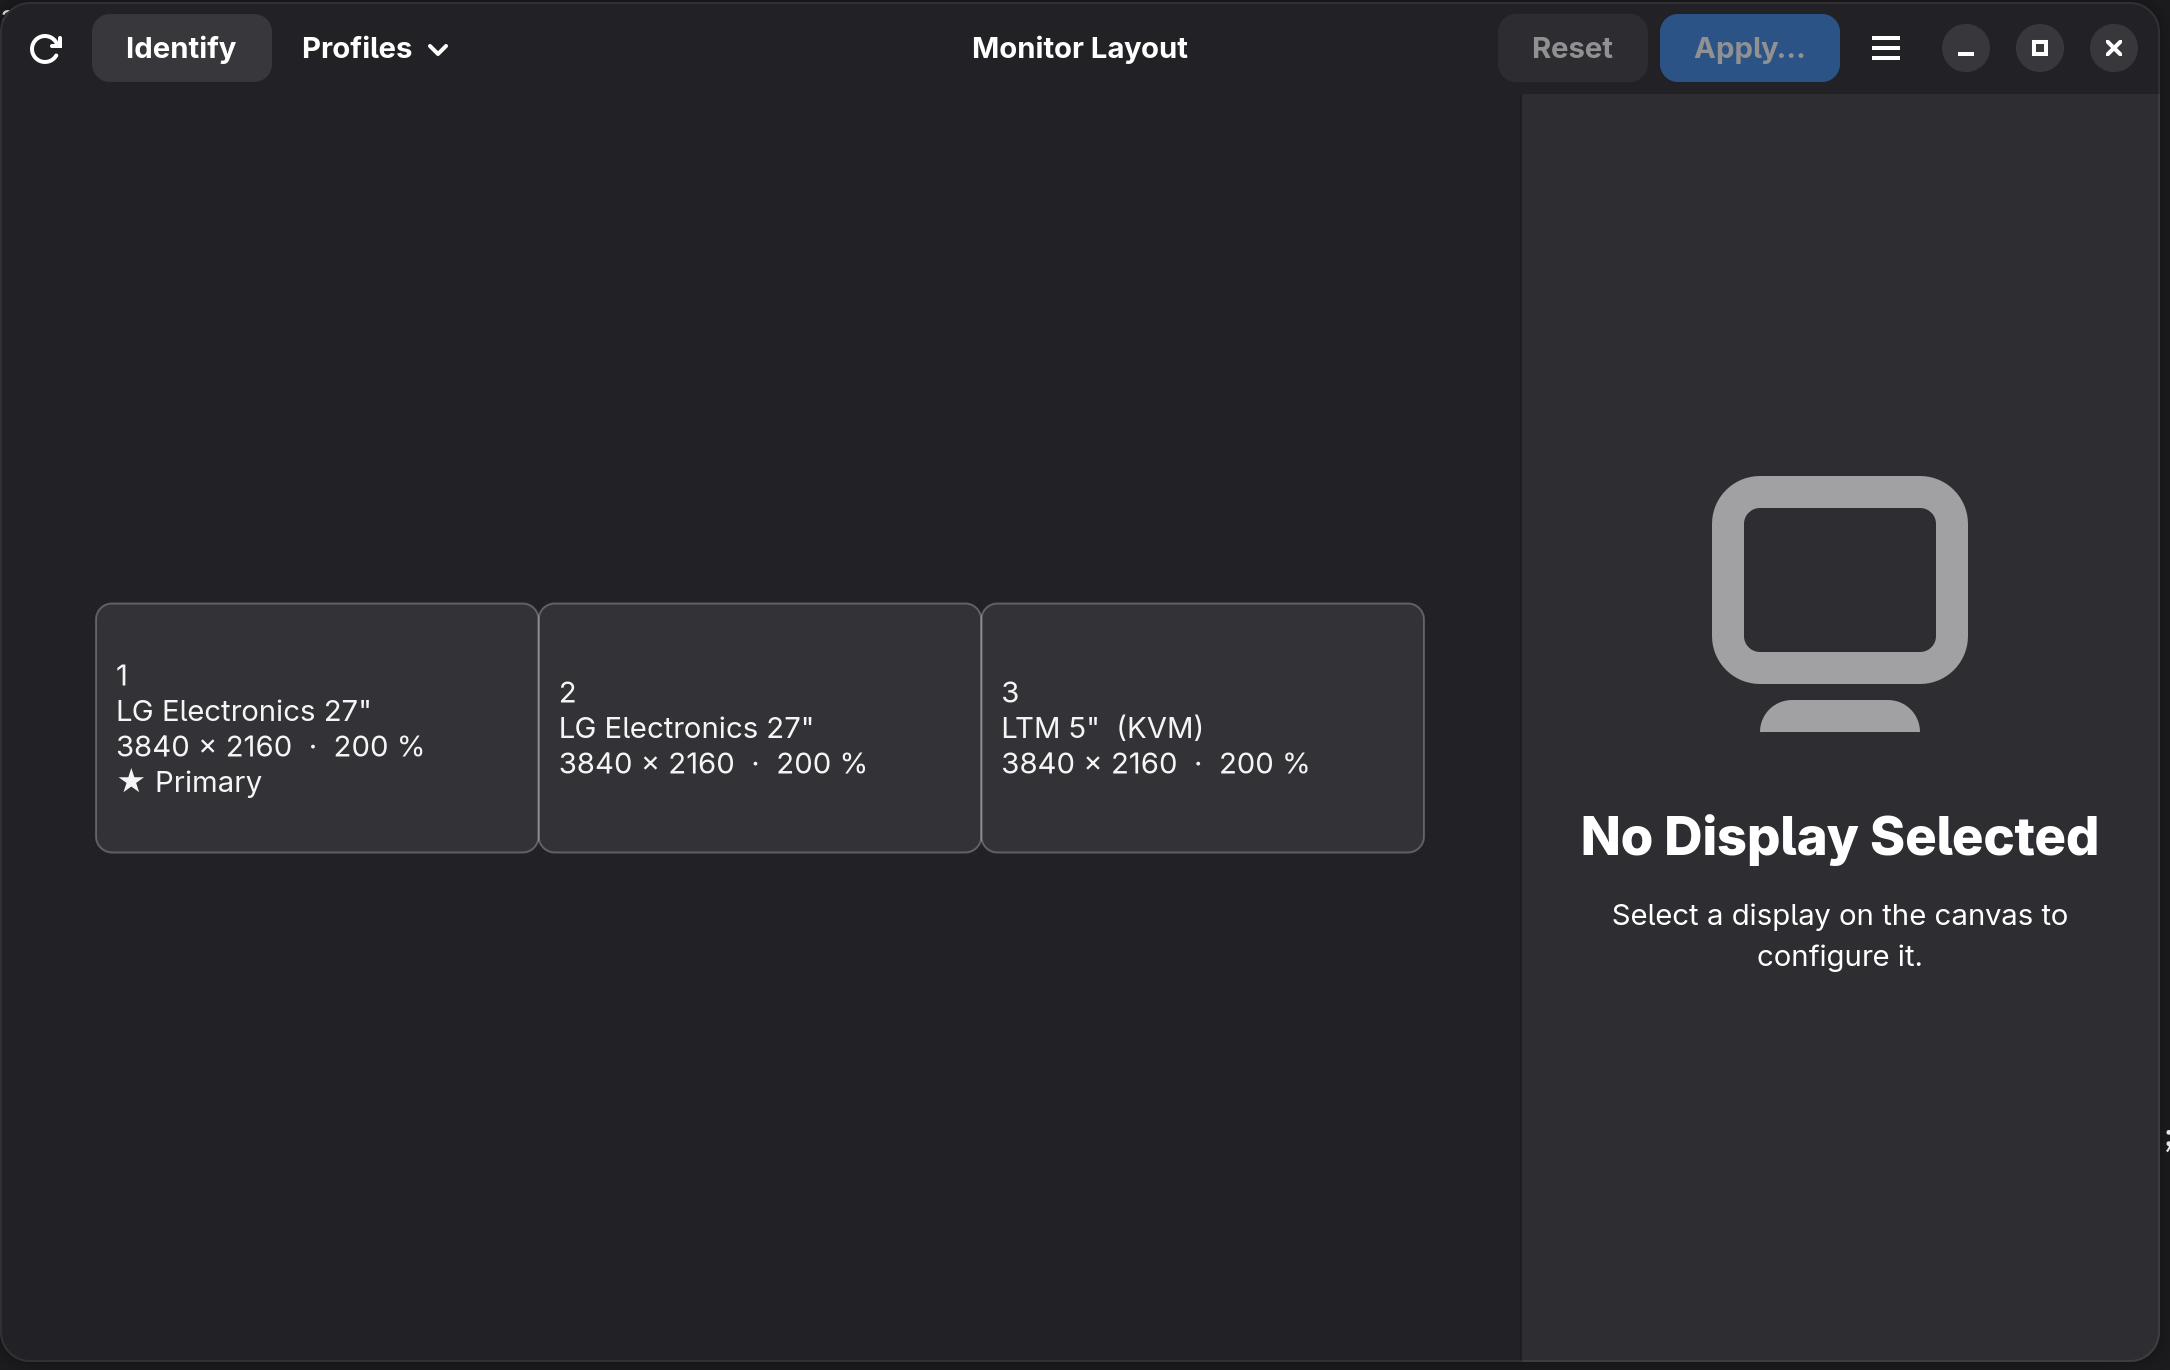
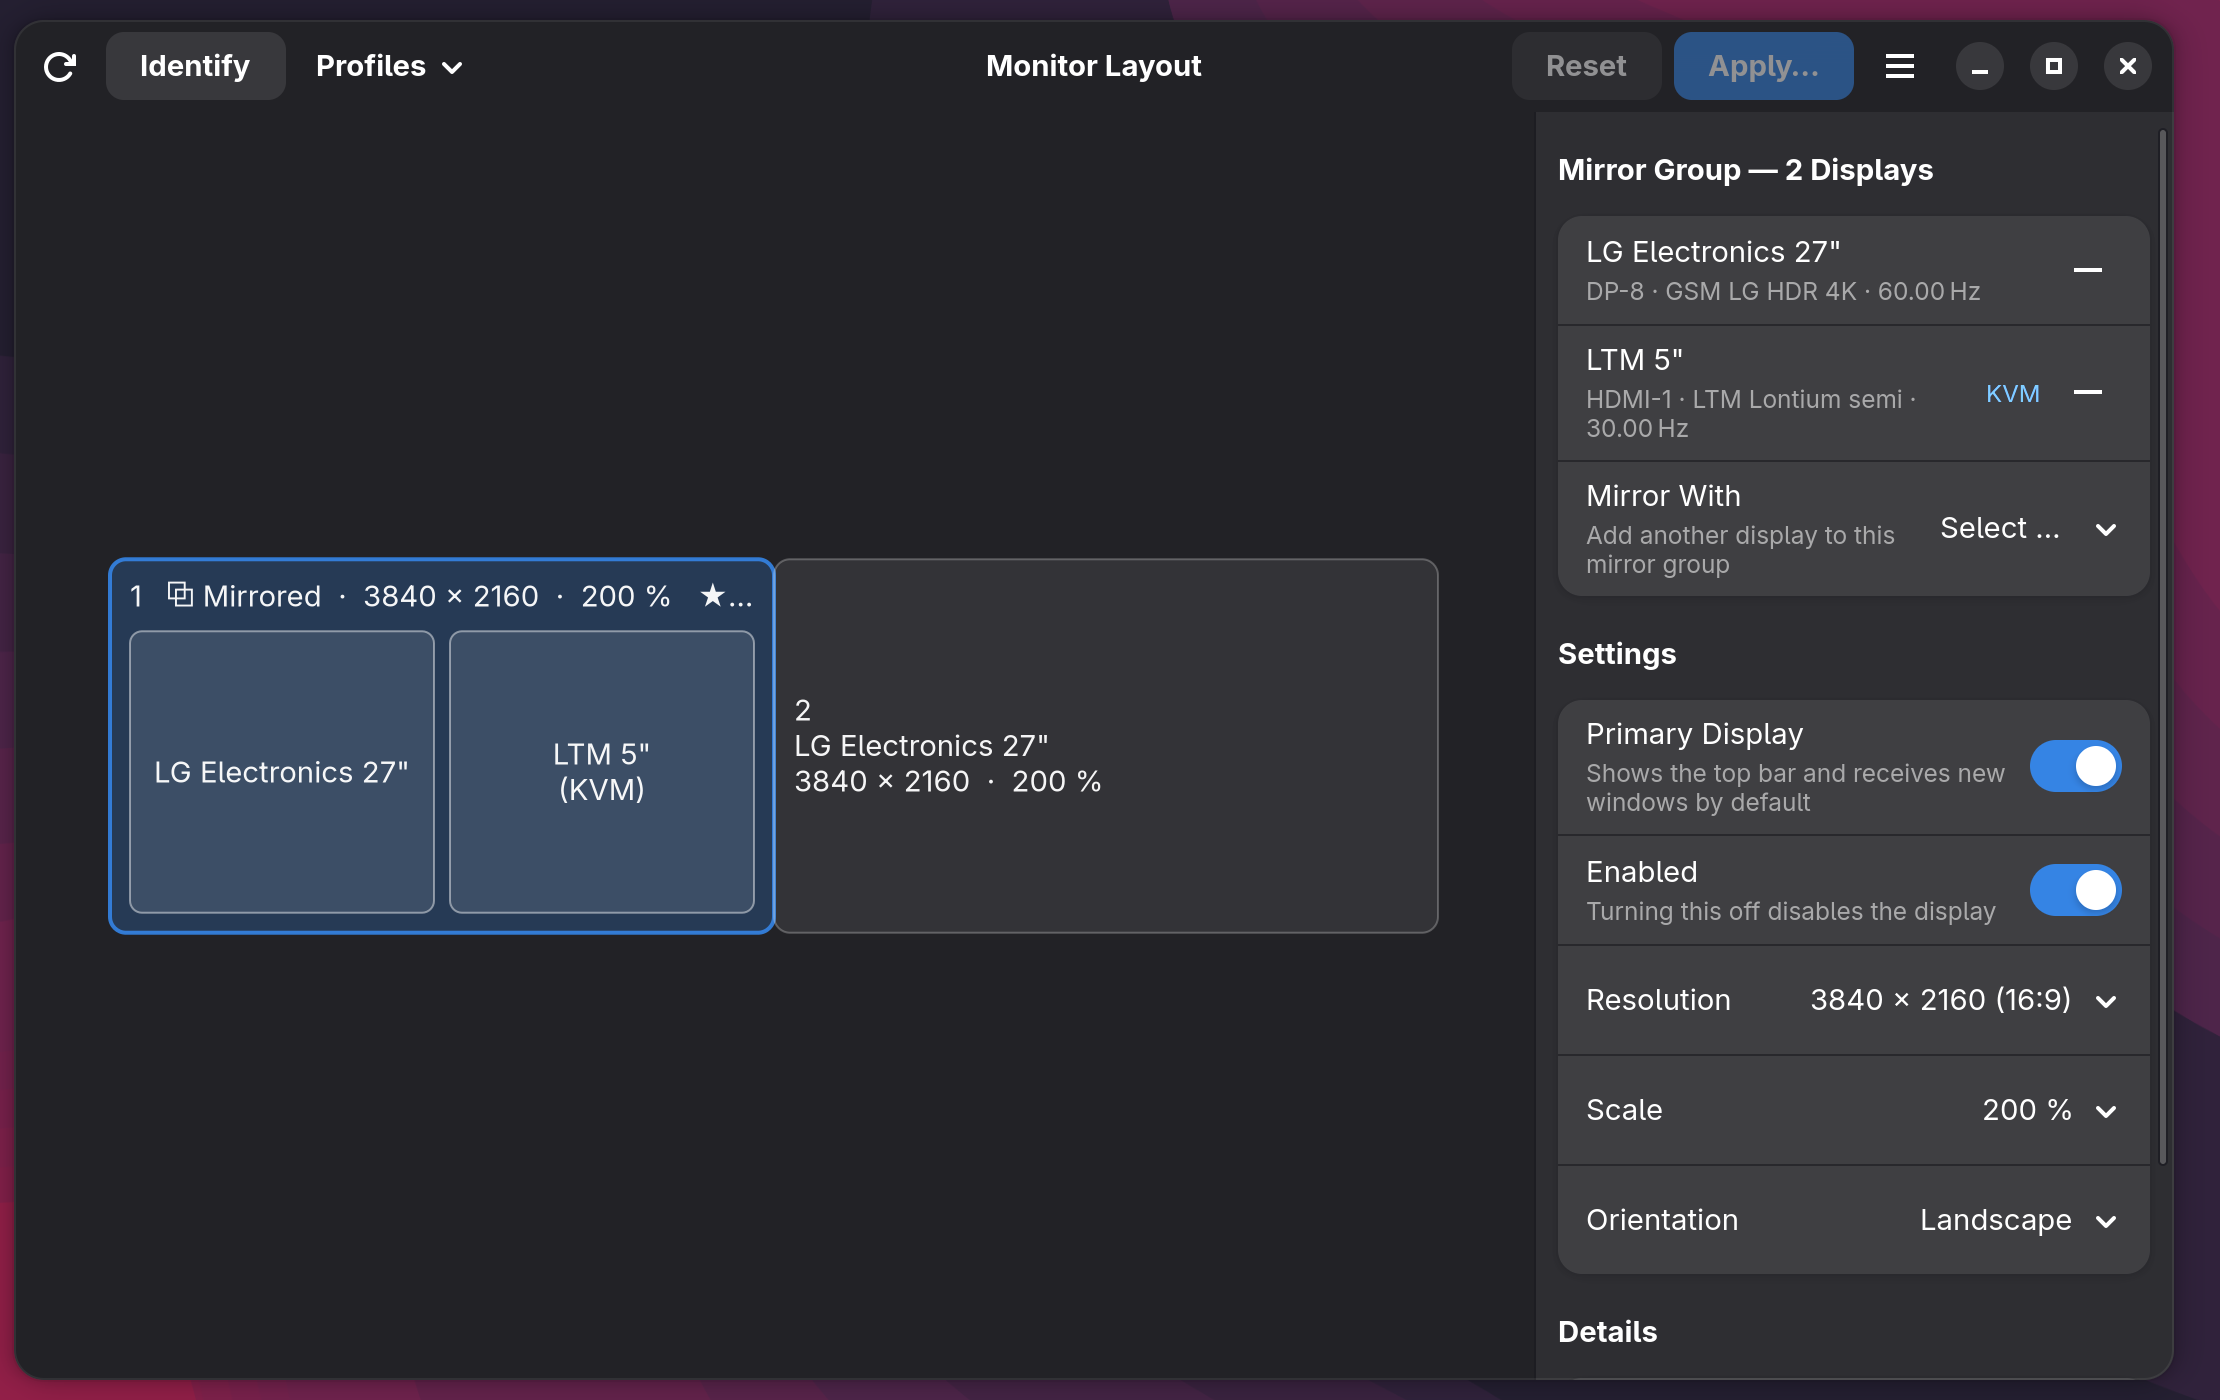
Fixing the UI

diff --git a/crates/display-ui/src/canvas.rs b/crates/display-ui/src/canvas.rs
@@ -436,7 +436,7 @@ impl Canvas {
             let (x, y, rw, rh) = self.to_widget(&rect);
             let is_selected = selected == Some(i);
 
-            // Card body.
+            // Card body (the group container for mirror groups).
             rounded_rect(cr, x, y, rw, rh, CARD_RADIUS);
             if is_selected {
                 cr.set_source_rgba(accent.0, accent.1, accent.2, 0.25);
@@ -453,22 +453,8 @@ impl Canvas {
             }
             let _ = cr.stroke();
 
-            // Labels.
-            cr.set_source_rgba(fg.0, fg.1, fg.2, 0.95);
-            let names: Vec<String> = logical
-                .monitors
-                .iter()
-                .map(|a| {
-                    let mut name = self.state.name_of(&a.connector);
-                    if self.state.is_kvm(&a.connector) {
-                        name.push_str("  (KVM)");
-                    }
-                    name
-                })
-                .collect();
             let (mode_w, mode_h) = logical.mode_size(&state.monitors).unwrap_or((0, 0));
-            let mut lines = vec![format!("{}", numbers.get(i).copied().unwrap_or(i + 1))];
-            lines.extend(names);
+            let number = numbers.get(i).copied().unwrap_or(i + 1);
             let mode_line = format!(
                 "{}  ·  {} %",
                 display_core::mode::format_resolution(mode_w, mode_h),
@@ -478,24 +464,82 @@ impl Canvas {
                     pct
                 }
             );
-            lines.push(mode_line);
-            let mut badges = Vec::new();
-            if logical.primary {
-                badges.push("★ Primary");
-            }
-            if logical.is_mirror_group() {
-                badges.push("⧉ Mirrored");
-            }
-            if !badges.is_empty() {
-                lines.push(badges.join("   "));
-            }
 
-            let layout_text = self.widget.create_pango_layout(Some(&lines.join("\n")));
-            layout_text.set_width((rw.max(10.0) as i32 - 16) * gtk::pango::SCALE);
-            layout_text.set_ellipsize(gtk::pango::EllipsizeMode::End);
-            let (_, text_h) = layout_text.pixel_size();
-            cr.move_to(x + 10.0, y + (rh - f64::from(text_h)).max(0.0) / 2.0);
-            pangocairo::functions::show_layout(cr, &layout_text);
+            cr.set_source_rgba(fg.0, fg.1, fg.2, 0.95);
+            if logical.is_mirror_group() {
+                // Header: number, mirror badge, shared mode; below it each
+                // member gets its own separate mini-monitor card, side by
+                // side inside the group container.
+                let mut header = format!("{number}   ⧉ Mirrored  ·  {mode_line}");
+                if logical.primary {
+                    header.push_str("   ★ Primary");
+                }
+                let header_text = self.widget.create_pango_layout(Some(&header));
+                header_text.set_width((rw.max(10.0) as i32 - 20) * gtk::pango::SCALE);
+                header_text.set_ellipsize(gtk::pango::EllipsizeMode::End);
+                let (_, header_h) = header_text.pixel_size();
+                cr.move_to(x + 10.0, y + 8.0);
+                pangocairo::functions::show_layout(cr, &header_text);
+
+                let pad = 10.0;
+                let gap = 8.0;
+                let top = y + 8.0 + f64::from(header_h) + 6.0;
+                let inner_h = (y + rh - pad - top).max(12.0);
+                #[allow(clippy::cast_precision_loss)]
+                let n = logical.monitors.len() as f64;
+                let col_w = ((rw - 2.0 * pad - gap * (n - 1.0)) / n).max(24.0);
+                for (k, assignment) in logical.monitors.iter().enumerate() {
+                    #[allow(clippy::cast_precision_loss)]
+                    let cx = x + pad + (col_w + gap) * k as f64;
+                    rounded_rect(cr, cx, top, col_w, inner_h, 6.0);
+                    cr.set_source_rgba(fg.0, fg.1, fg.2, 0.10);
+                    let _ = cr.fill_preserve();
+                    cr.set_source_rgba(fg.0, fg.1, fg.2, 0.45);
+                    cr.set_line_width(1.0);
+                    let _ = cr.stroke();
+
+                    let mut name = self.state.name_of(&assignment.connector);
+                    if self.state.is_kvm(&assignment.connector) {
+                        name.push_str("\n(KVM)");
+                    }
+                    let member_text = self.widget.create_pango_layout(Some(&name));
+                    member_text.set_width((col_w.max(10.0) as i32 - 10) * gtk::pango::SCALE);
+                    member_text.set_ellipsize(gtk::pango::EllipsizeMode::End);
+                    member_text.set_alignment(gtk::pango::Alignment::Center);
+                    let (_, member_h) = member_text.pixel_size();
+                    cr.set_source_rgba(fg.0, fg.1, fg.2, 0.95);
+                    cr.move_to(
+                        cx + 5.0,
+                        top + (inner_h - f64::from(member_h)).max(0.0) / 2.0,
+                    );
+                    pangocairo::functions::show_layout(cr, &member_text);
+                }
+            } else {
+                let mut lines = vec![number.to_string()];
+                let mut name = logical
+                    .monitors
+                    .first()
+                    .map(|a| self.state.name_of(&a.connector))
+                    .unwrap_or_default();
+                if logical
+                    .monitors
+                    .first()
+                    .is_some_and(|a| self.state.is_kvm(&a.connector))
+                {
+                    name.push_str("  (KVM)");
+                }
+                lines.push(name);
+                lines.push(mode_line);
+                if logical.primary {
+                    lines.push("★ Primary".to_owned());
+                }
+                let layout_text = self.widget.create_pango_layout(Some(&lines.join("\n")));
+                layout_text.set_width((rw.max(10.0) as i32 - 16) * gtk::pango::SCALE);
+                layout_text.set_ellipsize(gtk::pango::EllipsizeMode::End);
+                let (_, text_h) = layout_text.pixel_size();
+                cr.move_to(x + 10.0, y + (rh - f64::from(text_h)).max(0.0) / 2.0);
+                pangocairo::functions::show_layout(cr, &layout_text);
+            }
         }
 
         // Snap guides while dragging.

diff --git a/crates/display-ui/src/main.rs b/crates/display-ui/src/main.rs
@@ -290,6 +290,47 @@ fn activate(app: &adw::Application) {
                 if std::env::var_os("MONITOR_LAYOUT_IDENTIFY_ON_START").is_some() {
                     identify::show(&ctx2).await;
                 }
+                // Demo hook: build a mirror group in the EDITOR ONLY (never
+                // applied) — used for screenshots and visual verification.
+                if std::env::var_os("MONITOR_LAYOUT_DEMO_MIRROR").is_some() {
+                    let merged = {
+                        let current = ctx2.state.current.borrow();
+                        let mut edited = ctx2.state.edited.borrow_mut();
+                        if let (Some(state), Some(layout)) = (current.as_ref(), edited.as_mut()) {
+                            let kvm = state
+                                .monitors
+                                .iter()
+                                .find(|m| ctx2.state.prefs.borrow().is_kvm(m))
+                                .map(|m| m.connector().to_owned());
+                            let anchor = state
+                                .layout
+                                .primary()
+                                .and_then(|l| l.monitors.first())
+                                .map(|a| a.connector.clone());
+                            if let (Some(kvm), Some(anchor)) = (kvm, anchor) {
+                                display_core::layout_ops::merge_into_mirror(
+                                    state, layout, &anchor, &kvm,
+                                )
+                                .is_ok()
+                                .then_some(anchor)
+                            } else {
+                                None
+                            }
+                        } else {
+                            None
+                        }
+                    };
+                    if let Some(anchor) = merged {
+                        let index = ctx2
+                            .state
+                            .edited
+                            .borrow()
+                            .as_ref()
+                            .and_then(|l| l.group_of(&anchor).map(|(i, _)| i));
+                        ctx2.state.selected.set(index);
+                        ctx2.after_structural_edit();
+                    }
+                }
                 listen(&ctx2, backend).await;
             }
             Err(e) => {
@@ -620,7 +661,7 @@ fn about_action(app: &adw::Application) {
                 .application_name("Monitor Layout")
                 .application_icon(APP_ID)
                 .version(env!("CARGO_PKG_VERSION"))
-                .developer_name("Christos")
+                .developer_name("Christos A. Daggas")
                 .license_type(gtk::License::Gpl30)
                 .comments(
                     "Visual display layout manager for GNOME on Wayland, with partial \

diff --git a/README.md b/README.md
@@ -4,7 +4,11 @@ A native GNOME (Wayland) display layout manager with **partial mirroring** —
 built for setups where a KVM-over-IP console should mirror the main monitor
 while a second monitor stays extended.
 
-![Monitor Layout main window](docs/img/main-window.png)
+![Monitor Layout: a KVM mirrored with the main monitor as one group, second monitor extended](docs/img/main-window.png)
+
+*The canvas showing a mirror group: the KVM and the main LG panel as separate
+screens inside one “⧉ Mirrored” container, with the second LG extended beside
+it and the group's shared settings in the sidebar.*
 
 Monitor Layout talks directly to Mutter's `org.gnome.Mutter.DisplayConfig`
 D-Bus interface — the same mechanism GNOME Settings uses — and adds what the
@@ -18,17 +22,20 @@ rest remain independent.
   (arrow keys / Shift+arrows). Live validation explains anything Mutter
   would reject before you ever apply.
 * **Partial mirroring** — select a display, choose *Mirror With*, and the
-  two become one mirror group; place the group left/right/above/below the
-  remaining display, on any side. Mirror resolutions are computed from the
-  real common mode list (mixed refresh rates supported — e.g. an LG panel
-  at 59.997 Hz cloned with a KVM at 30 Hz).
+  two become one mirror group, drawn as separate screens inside one group
+  container; place the group left/right/above/below the remaining display,
+  on any side. Mirror resolutions are computed from the real common mode
+  list (mixed refresh rates supported — e.g. an LG panel at 59.997 Hz
+  cloned with a KVM at 30 Hz). Mirror edits are transactional: they either
+  produce a fully valid layout or change nothing.
 * **Per-display settings** — resolution (with aspect-ratio labels), refresh
   rate (VRR modes included), scaling incl. fractional, orientation, enable/
   disable, primary display. Only values the compositor actually advertises
   are offered.
-* **Identify** — numbered overlays on every screen via GNOME Shell's
-  official monitor labels; shown automatically while the window is focused.
-  Numbers match the canvas (1 = leftmost).
+* **Identify** — numbered overlays on every screen. GNOME Shell's official
+  monitor labels are used where permitted; since Shell restricts that API
+  to GNOME Settings, a built-in fallback shows a brief full-screen number
+  card per monitor instead. Numbers match the canvas (1 = leftmost).
 * **Profiles** — save named layouts (`KVM + Main Mirrored`, `Local Dual`,
   …). Profiles match monitors by **EDID identity** (vendor/product/serial),
   not connector names — they survive cable/port swaps; ambiguous or partial
@@ -139,9 +146,19 @@ color modes and RGB range are shown read-only in v0.1. Full list:
 | `docs/mutter-dbus-notes.md` | Verified `org.gnome.Mutter.DisplayConfig` reference (Mutter 50.2) |
 | `docs/architecture.md` | Crate/workspace design |
 | `docs/safety-and-rollback.md` | The apply/preview/rollback machinery |
-| `docs/testing.md` | Automated suite (87 tests) + manual matrix |
+| `docs/testing.md` | Automated suite (92 tests) + manual matrix |
 | `docs/known-limitations.md` | Honest list of what doesn't work (yet) |
+
+## Source
+
+Development happens at
+[github.com/christosdaggas/Gnome-Monitors](https://github.com/christosdaggas/Gnome-Monitors).
+CI (GitHub Actions) runs formatting, Clippy with denied warnings, the full
+test suite, release build, desktop/AppStream validation, and an RPM
+build + smoke install on Fedora 44.
 
 ## License
 
-GPL-3.0-or-later. See `LICENSE`.
+GPL-3.0-or-later (see `LICENSE`). © Christos A. Daggas.
+The application icon originates from SVG Repo; verify the individual
+icon's license terms before redistribution.